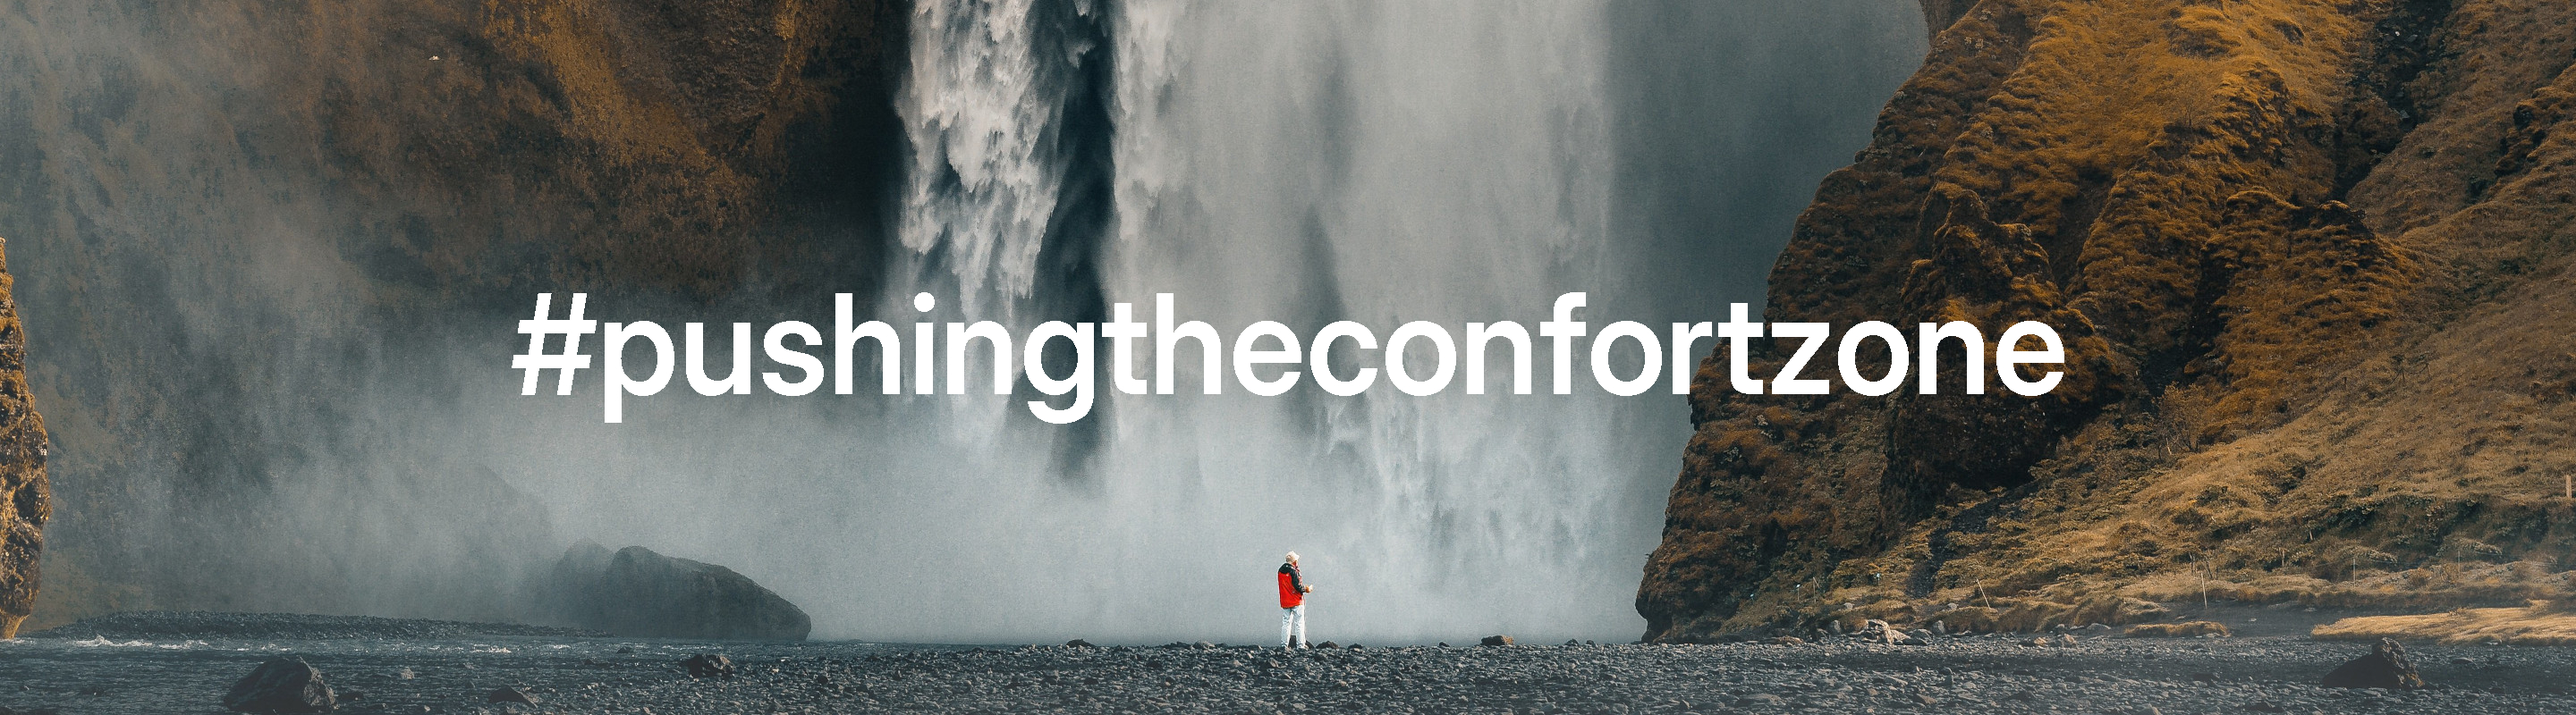
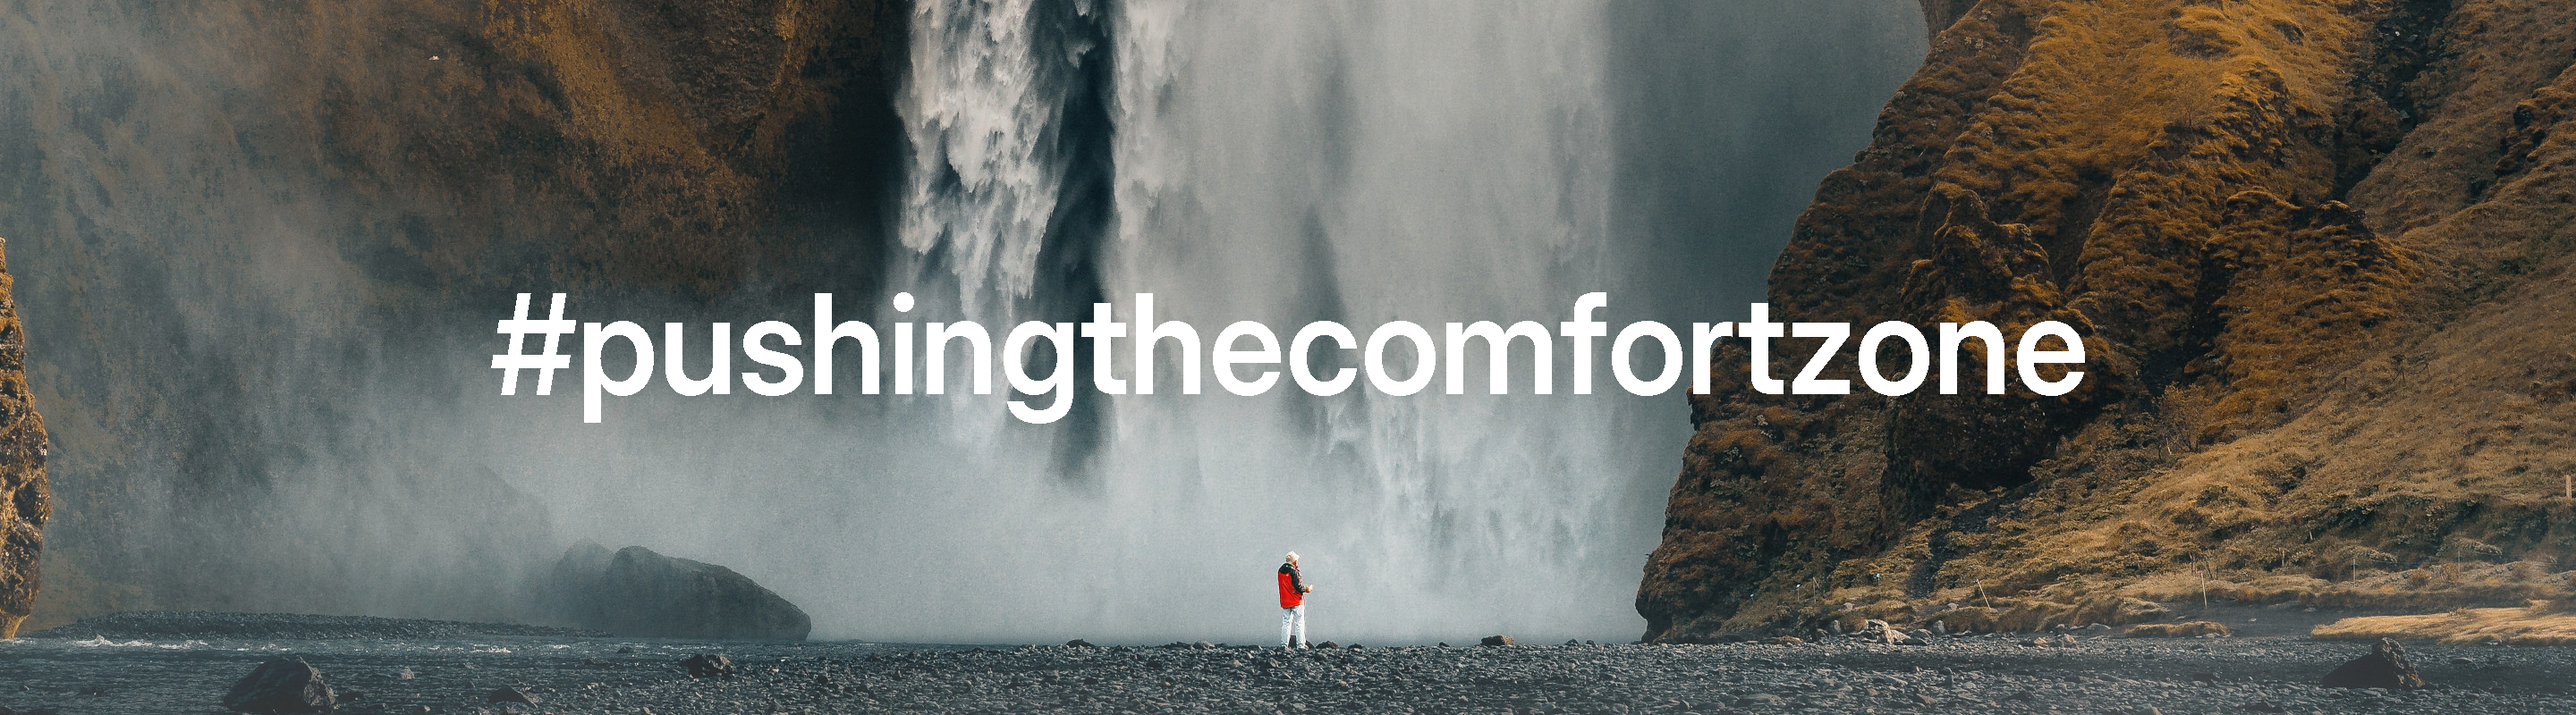
Fix accessibility issues: add aria-labels to form inputs and improve semantic links

Changed region(s): [[0.1875, 0.4062, 0.8125, 0.5938]]

diff --git a/payment.html b/payment.html
@@ -20,7 +20,7 @@
         <nav class="main-nav">
             <div class="nav-container">
                 <div class="nav-left">
-                    <a href="coming-soon.html">
+                    <a href="coming-soon.html" aria-label="Open menu">
                         <i class="fa-solid fa-bars" style="color: #ffffff;"></i>
                     </a>
                 </div>
@@ -28,10 +28,10 @@
                     <img src="assets/images/icons/RainyDays_Logo-WHITE.png" class="nav-logo" alt="Rainy Days logo">
                 </a>
                 <div class="nav-right">
-                    <a href="coming-soon.html">
+                    <a href="coming-soon.html" aria-label="Search">
                         <i class="fa-solid fa-magnifying-glass" style="color: #ffffff;"></i>
                     </a>
-                    <a href="cart.html">
+                    <a href="cart.html" aria-label="Shopping cart">
                         <i class="fa-solid fa-bag-shopping" style="color: #ffffff;"></i>
                     </a>
                 </div>
@@ -44,22 +44,22 @@
                 <form action="#">
                     <fieldset>
                         <legend>Contact information</legend>
-                        <input type="text" name="email" id="email" placeholder="Email*">
+                        <input type="text" name="email" id="email" placeholder="Email*" aria-label="Email address">
                     </fieldset>
 
                     <fieldset>
                         <legend>Shipping address</legend>
-                        <input type="text" name="name" id="name" placeholder="Full Name *">
-                        <input type="text" name="address" id="address" placeholder="Address *">
+                        <input type="text" name="name" id="name" placeholder="Full Name *" aria-label="Full name">
+                        <input type="text" name="address" id="address" placeholder="Address *" aria-label="Address">
                         <div class="three-columns">
-                            <input type="text" name="country" id="country" placeholder="Country *">
-                            <input type="text" name="region" id="region" placeholder="Region *">
-                            <input type="text" name="city" id="city" placeholder="City *">
+                            <input type="text" name="country" id="country" placeholder="Country *" aria-label="Country">
+                            <input type="text" name="region" id="region" placeholder="Region *" aria-label="Region">
+                            <input type="text" name="city" id="city" placeholder="City *" aria-label="City">
                         </div>
                         <div>
                             <div class="phone-code">
-                                <input type="text" name="phone" id="phone" placeholder="Phone Number *">
-                                <select name="country-code" id="country-code">
+                                <input type="text" name="phone" id="phone" placeholder="Phone Number *" aria-label="Phone number">
+                                <select name="country-code" id="country-code" aria-label="Country phone code">
                                     <option value="+47">+47 (NO)</option>
                                     <option value="+34">+34 (ES)</option>
                                     <option value="+44">+44 (UK)</option>
@@ -74,12 +74,12 @@
                         <legend>Shipping method</legend>
                         <div class="shipping-type">
                             <div class="shipping-option shipping-option-white">
-                                <input type="radio" name="shipping-method-1" id="shipping-method-1">
+                                <input type="radio" name="shipping-method-1" id="shipping-method-1" aria-label="Standard shipping">
                                 <p>Standard Shipping: Ships in 2-5 business days with free returns</p>
                                 <p>FREE!</p>
                             </div>
                             <div class="shipping-option shipping-option-white">
-                                <input type="radio" name="shipping-method-2" id="shipping-method-2">
+                                <input type="radio" name="shipping-method-2" id="shipping-method-2" aria-label="priority shipping">
                                 <p>Priority: Ships in 1-2 business days with free returns</p>
                                 <p>120 Kr</p>
                             </div>
@@ -90,21 +90,21 @@
                         <legend>Payment method</legend>
                         <div class="payment-type">
                             <div class="payment-option">
-                                <input type="radio" name="credit-card" id="credit-card">
+                                <input type="radio" name="credit-card" id="credit-card" aria-label="Pay with credit card">
                                 <p>Credit Card</p>
                                 <i class="fa-brands fa-cc-visa" style="color: #111111;"></i>
                             </div>
                             <div class="payment-option">
-                                <input type="radio" name="paypal" id="paypal">
+                                <input type="radio" name="paypal" id="paypal" aria-label="Pay with paypal">
                                 <p>PayPal</p>
                                 <i class="fa-brands fa-cc-paypal" style="color: #111111;"></i>
                             </div>
                         </div>
                         <div class="card-inputs">
-                            <input type="text" name="card-number" id="card-number" placeholder="Card Number *">
+                            <input type="text" name="card-number" id="card-number" placeholder="Card Number *" aria-label="Card number">
                             <div class="card-row">
-                                <input type="text" name="expiration-date" id="expiration-date" placeholder="Expiration Date *">
-                                <input type="text" name="cvc" id="cvc" placeholder="CVC *">
+                                <input type="text" name="expiration-date" id="expiration-date" placeholder="Expiration Date *" aria-label="Expiration date">
+                                <input type="text" name="cvc" id="cvc" placeholder="CVC *" aria-label="CVC">
                             </div>
                         </div>
                         <a href="confirmation.html" class="cta-paynow">Pay Now</a>
@@ -146,7 +146,7 @@
                     </div>
                 </div>
                 <div class="promo-box">
-                    <input type="text" name="promotion-code" id="promotion-code" placeholder="Promotion Code" class="promo-input">
+                    <input type="text" name="promotion-code" id="promotion-code" placeholder="Promotion Code" class="promo-input" aria-label="Promotion code">
                 </div>
                 <div>
                     <div class="order-summary">

diff --git a/cart.html b/cart.html
@@ -21,7 +21,7 @@
         <nav class="main-nav">
             <div class="nav-container">
                 <div class="nav-left">
-                    <a href="coming-soon.html">
+                    <a href="coming-soon.html" aria-label="Open menu">
                         <i class="fa-solid fa-bars" style="color: #ffffff;"></i>
                     </a>
                 </div>
@@ -29,10 +29,10 @@
                     <img src="assets/images/icons/RainyDays_Logo-WHITE.png" class="nav-logo" alt="Rainy Days logo">
                 </a>
                 <div class="nav-right">
-                    <a href="coming-soon.html">
+                    <a href="coming-soon.html" aria-label="Search">
                         <i class="fa-solid fa-magnifying-glass" style="color: #ffffff;"></i>
                     </a>
-                    <a href="cart.html">
+                    <a href="cart.html" aria-label="Shopping cart">
                         <i class="fa-solid fa-bag-shopping" style="color: #ffffff;"></i>
                     </a>
                 </div>
@@ -81,7 +81,9 @@
                 </div>
             </div>
             <section class="order-section">
-                <input type="text" name="promotion-code" id="promotion-code" placeholder="Promotion Code" class="promo-input">
+                <label>
+                    <input type="text" name="promotion-code" id="promotion-code" placeholder="Promotion Code" class="promo-input">
+                </label>
                 <div class="order-summary">
                     <h2>Order Summary</h2>
                     <div class="order-row">
@@ -145,7 +147,9 @@
                     <div class="newsletter">
                         <h4>Join our email list</h4>
                         <div>
-                            <input type="text" name="email" id="email" placeholder="Email Address*">
+                            <label>
+                                <input type="text" name="email" id="email" placeholder="Email Address*">
+                            </label>
                             <label>
                                 <input type="checkbox">
                                 <span>I agree to the Privacy Policy & Terms of Use</span>

diff --git a/index.html b/index.html
@@ -20,7 +20,7 @@
         <nav class="main-nav">
             <div class="nav-container">
                 <div class="nav-left">
-                    <a href="coming-soon.html">
+                    <a href="coming-soon.html" aria-label="Open menu">
                         <i class="fa-solid fa-bars" style="color: #ffffff;"></i>
                     </a>
                 </div>
@@ -28,10 +28,10 @@
                     <img src="assets/images/icons/RainyDays_Logo-WHITE.png" class="nav-logo" alt="Rainy Days logo">
                 </a>
                 <div class="nav-right">
-                    <a href="coming-soon.html">
+                    <a href="coming-soon.html" aria-label="Search">
                         <i class="fa-solid fa-magnifying-glass" style="color: #ffffff;"></i>
                     </a>
-                    <a href="cart.html">
+                    <a href="cart.html" aria-label="Shopping cart">
                         <i class="fa-solid fa-bag-shopping" style="color: #ffffff;"></i>
                     </a>
                 </div>
@@ -46,7 +46,7 @@
             <div class="hero-content">
                 <h1 class="hero-title">
                     <span class="hero-title-strong">Pushing</span>
-                    <span class="hero-title-strong">the confort zone.</span>
+                    <span class="hero-title-strong">the comfort zone.</span>
                     <span>Design for every adventure.</span>
                 </h1>
                 <p class="hero-subtitle">Don´t let the rain stop you. Gear up with our rain-ready jackets, built for nature's worst.</p>
@@ -154,7 +154,9 @@
                     <div class="newsletter">
                         <h4>Join our email list</h4>
                         <div>
-                            <input type="text" name="email" id="email" placeholder="Email Address*">
+                            <label>
+                                <input type="text" name="email" id="email" placeholder="Email Address*">
+                            </label>
                             <label>
                                 <input type="checkbox">
                                 <span>I agree to the Privacy Policy & Terms of Use</span>

diff --git a/product-details.html b/product-details.html
@@ -21,7 +21,7 @@
         <nav class="main-nav">
             <div class="nav-container">
                 <div class="nav-left">
-                    <a href="coming-soon.html">
+                    <a href="coming-soon.html" aria-label="Open menu">
                         <i class="fa-solid fa-bars" style="color: #ffffff;"></i>
                     </a>
                 </div>
@@ -29,10 +29,10 @@
                     <img src="assets/images/icons/RainyDays_Logo-WHITE.png" class="nav-logo" alt="Rainy Days logo">
                 </a>
                 <div class="nav-right">
-                    <a href="coming-soon.html">
+                    <a href="coming-soon.html" aria-label="Search">
                         <i class="fa-solid fa-magnifying-glass" style="color: #ffffff;"></i>
                     </a>
-                    <a href="cart.html">
+                    <a href="cart.html" aria-label="Shopping cart">
                         <i class="fa-solid fa-bag-shopping" style="color: #ffffff;"></i>
                     </a>
                 </div>
@@ -158,7 +158,9 @@
                     <div class="newsletter">
                         <h4>Join our email list</h4>
                         <div>
-                            <input type="text" name="email" id="email" placeholder="Email Address*">
+                            <label>
+                                <input type="text" name="email" id="email" placeholder="Email Address*">
+                            </label>
                             <label>
                                 <input type="checkbox">
                                 <span>I agree to the Privacy Policy & Terms of Use</span>
